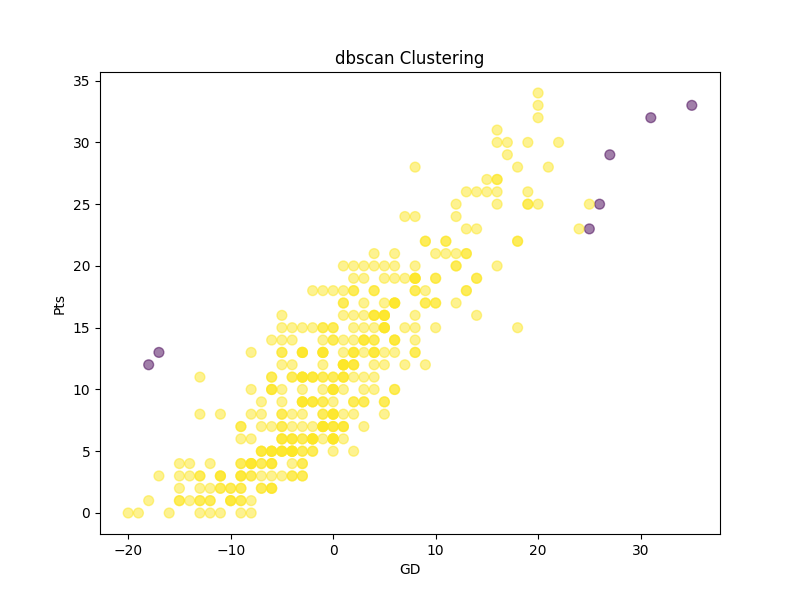
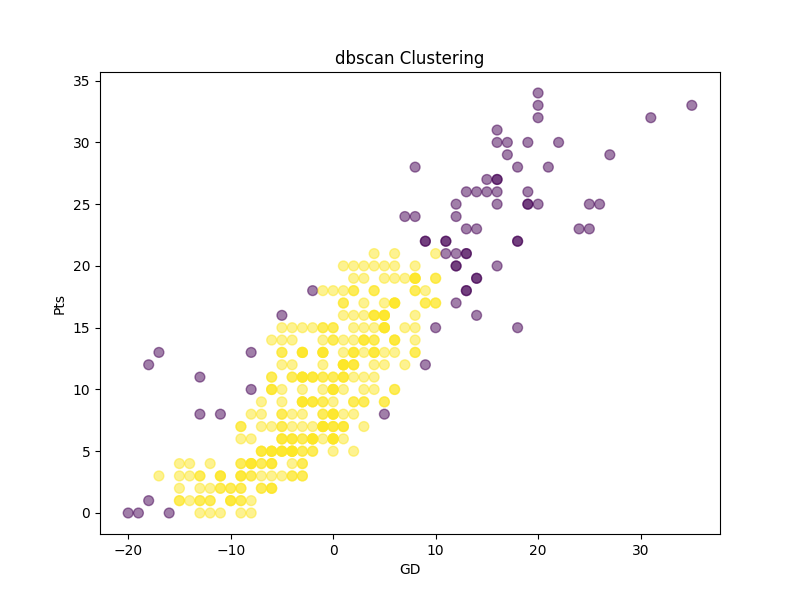
Vamos a dejarlo con estos parametros

diff --git a/Clusters/DensityClustering/DensityCluster.py b/Clusters/DensityClustering/DensityCluster.py
@@ -14,7 +14,7 @@ class DensityCluster(CentroidCluster):
     def fit_model(self, features):
         self.X = self.df[features]
         if self.cluster_type == 'dbscan':
-            model = DBSCAN(eps=5, min_samples=10)
+            model = DBSCAN(eps=2, min_samples=10)
         elif self.cluster_type == 'optics':
             model = OPTICS(min_samples=10, xi=0.05, min_cluster_size=0.05)
         elif self.cluster_type == 'hdbscan':
